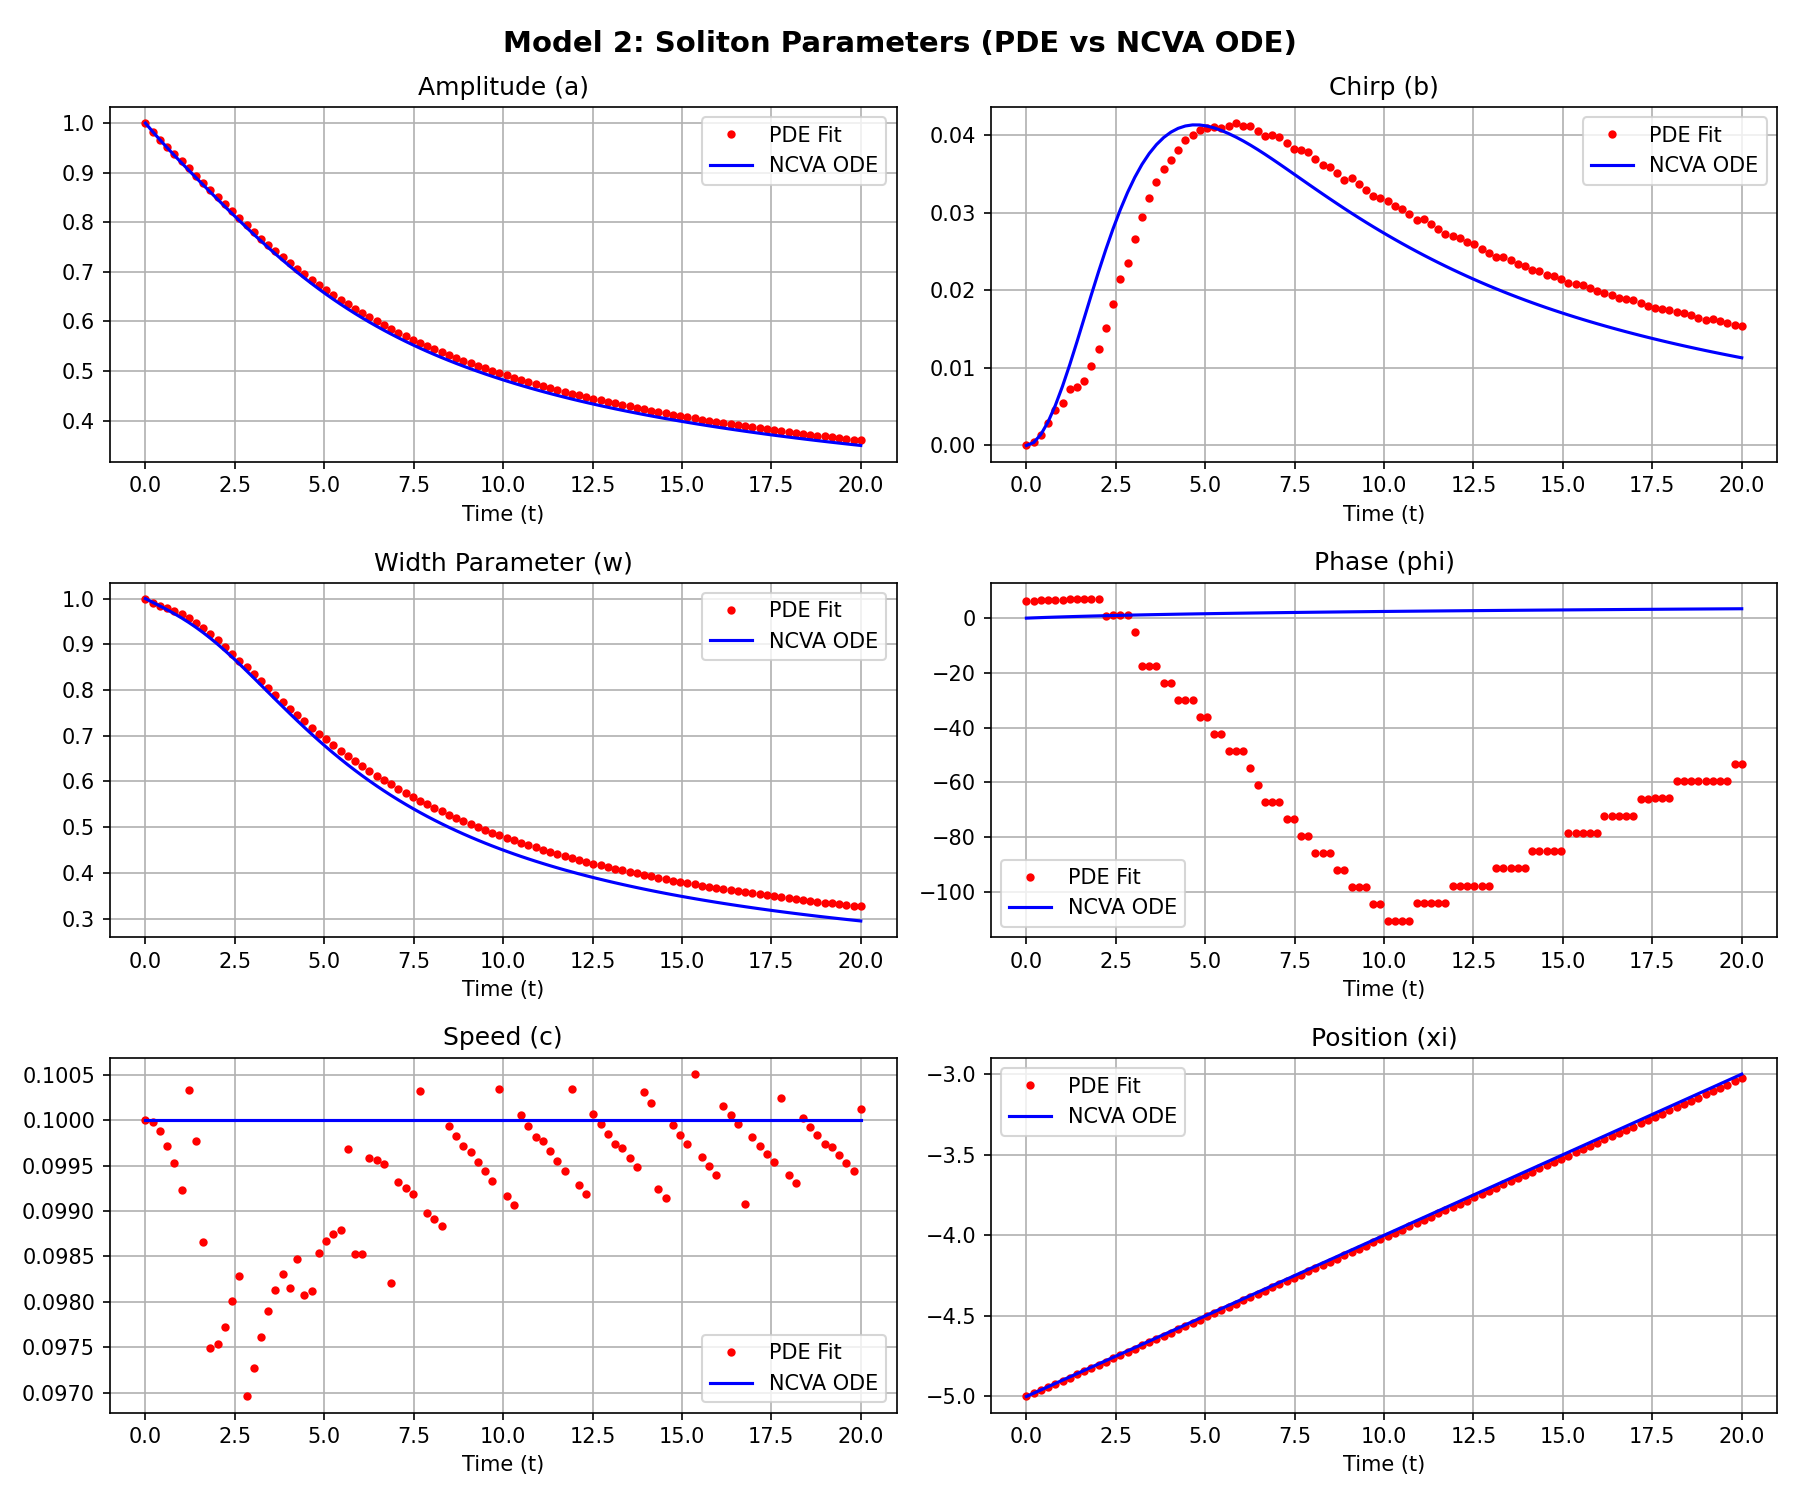
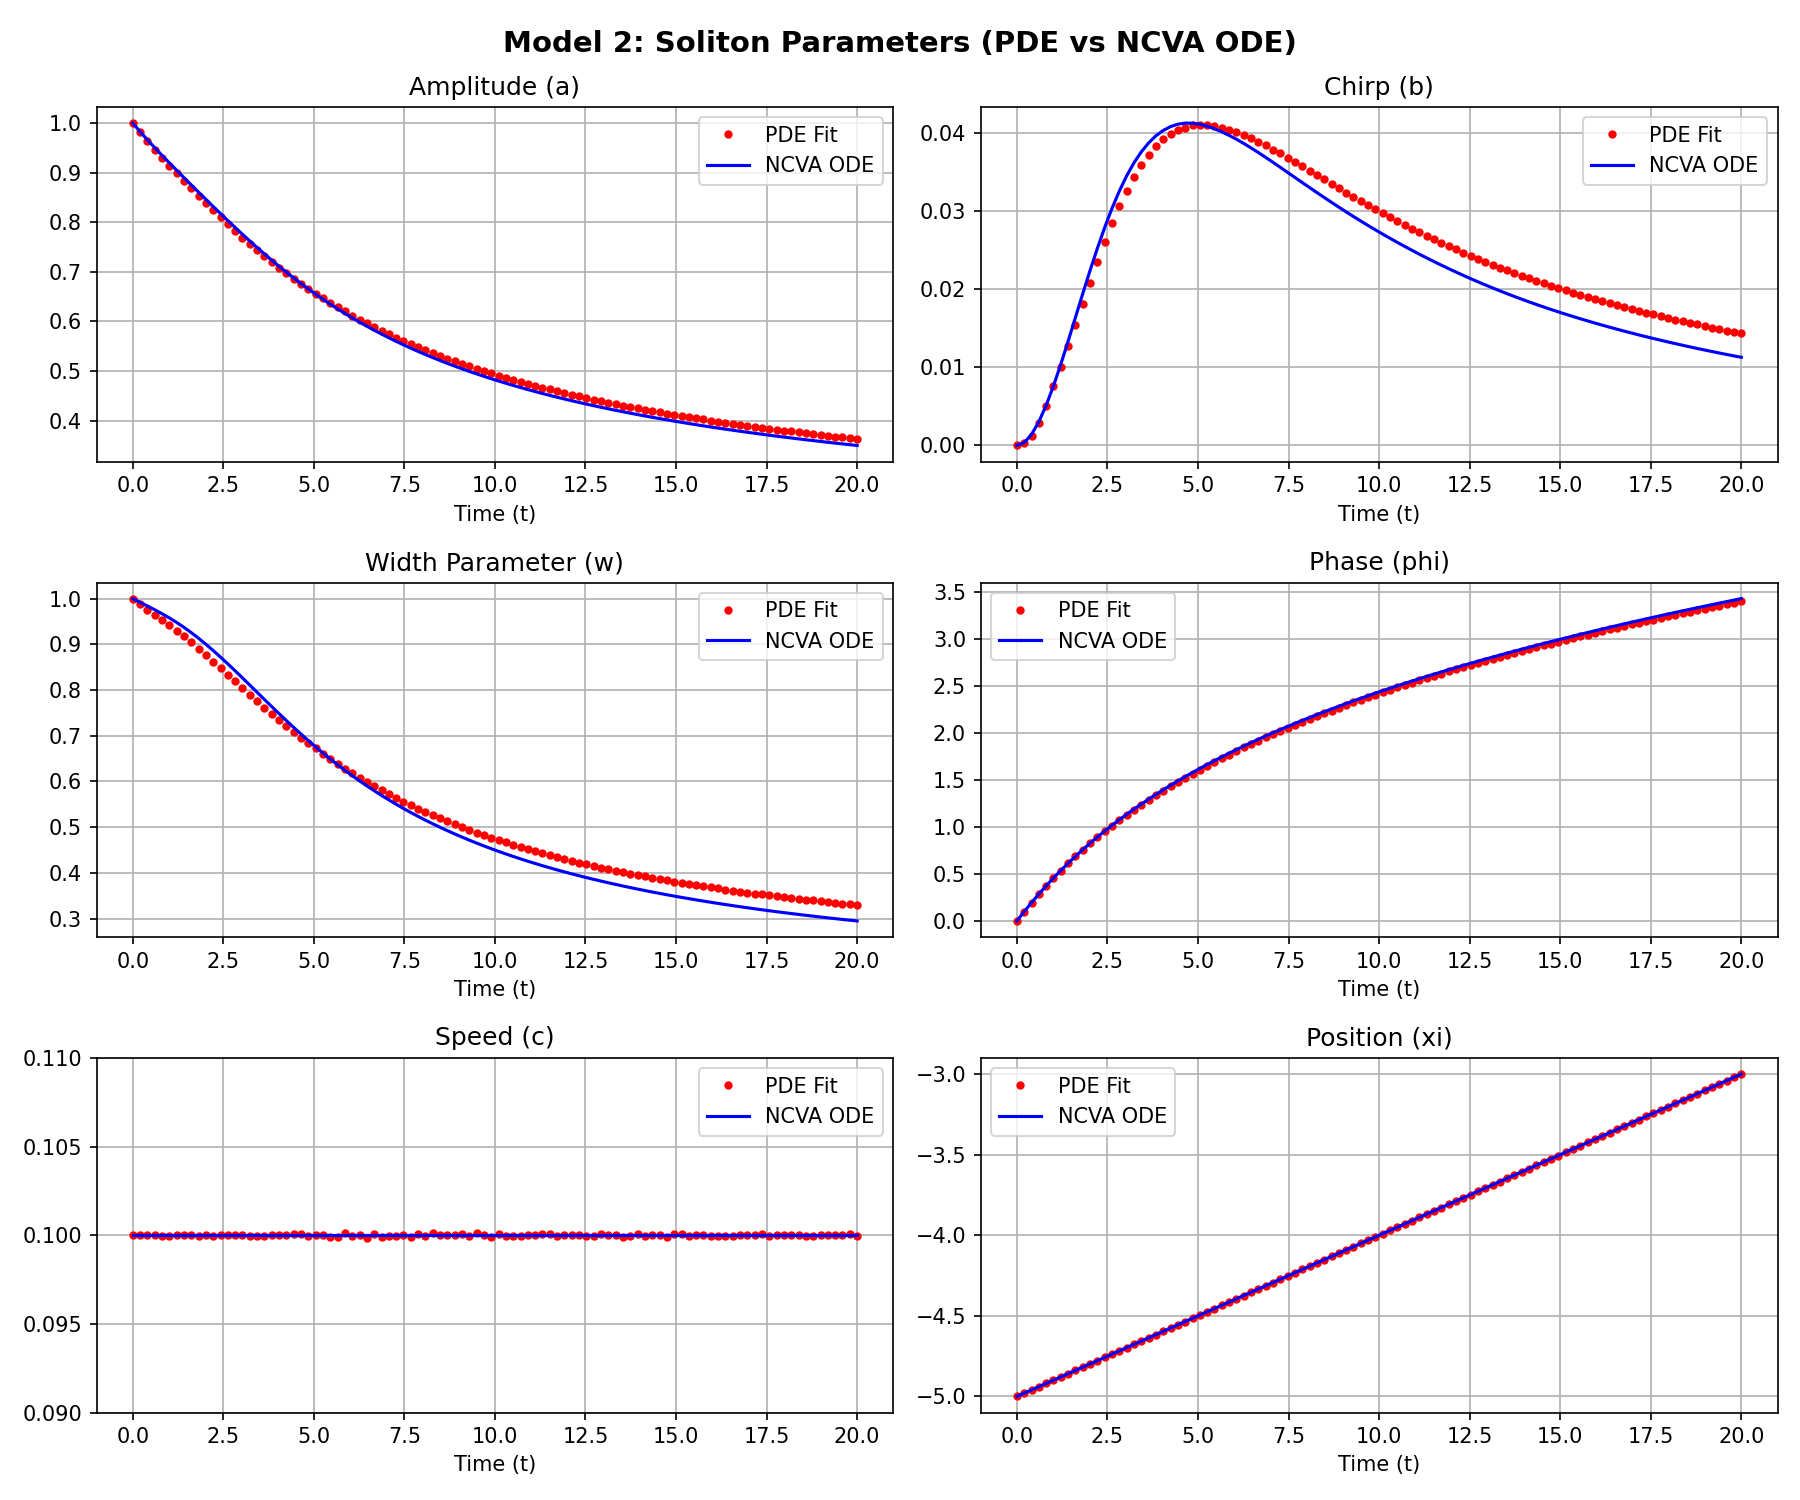
Improve NLSE simulation accuracy and parameter comparison

diff --git a/main.py b/main.py
@@ -11,7 +11,7 @@ t_max = 20.0
 t_steps = 100
 t_eval = np.linspace(0, t_max, t_steps)
 
-N = 256
+N = 2048 # 256
 L = 100.0 # -5 ->5
 x = np.linspace(-L/2, L/2, N)
 dx = x[1] - x[0]
@@ -21,14 +21,30 @@ def compute_uxx(u, dx): # laplacian numerical method
     u_left = np.roll(u, 1)
     return (u_right - 2*u + u_left) / (dx**2)
 
+# def pde_derivs(t, y_real):
+#     u = y_real[:N] + 1j * y_real[N:]
+#     u_xx = compute_uxx(u, dx)
+#     u_sq = np.abs(u)**2
+
+
+#     # isolating
+#     # du_dt = i/2 * u_xx + i*|u|^2*u - eps*|u|^2*u
+#     du_dt = 0.5j * u_xx + 1j * u_sq * u - epsilon * u_sq * u
+
+#     return np.concatenate([du_dt.real, du_dt.imag])
+
+
+# Pre-compute wave numbers outside the derivative function for efficiency
+k_vec = 2 * np.pi * np.fft.fftfreq(N, d=dx)
+k_squared = k_vec**2
+
 def pde_derivs(t, y_real):
     u = y_real[:N] + 1j * y_real[N:]
-    u_xx = compute_uxx(u, dx)
+
+    # Spectral Laplacian
+    u_xx = np.fft.ifft(-k_squared * np.fft.fft(u))
     u_sq = np.abs(u)**2
 
-
-    # isolating
-    # du_dt = i/2 * u_xx + i*|u|^2*u - eps*|u|^2*u
     du_dt = 0.5j * u_xx + 1j * u_sq * u - epsilon * u_sq * u
 
     return np.concatenate([du_dt.real, du_dt.imag])
@@ -49,10 +65,6 @@ print("log: Running PDE Simulation...")
 sol_pde = solve_ivp(pde_derivs, (0, t_max), y_init, t_eval=t_eval, method='RK45', rtol=1e-6, atol=1e-8)
 u_history = sol_pde.y[:N, :].T + 1j * sol_pde.y[N:, :].T
 print("log: PDE Simulation completed.")
-
-
-
-
 
 
 # --- Step 2: Decoupled Parameter Fitting ---
@@ -120,6 +132,10 @@ for i, t_val in enumerate(t_eval):
     c_history_fit.append(c_f)
     phi_history_fit.append(phi_f)
 
+
+phi_history_fit = np.unwrap(phi_history_fit)
+phi_history_fit = phi_history_fit - phi_history_fit[0]
+
 print("Parameter Fitting completed.")
 
 
@@ -163,6 +179,10 @@ for name, pde_val, ode_val, ax in params_to_plot:
     ax.set_xlabel("Time (t)")
     ax.legend()
     ax.grid(True)
+
+    # Add this condition to fix the speed axis scaling
+    if name == "Speed (c)":
+        ax.set_ylim(0.09, 0.11)
 
 plt.tight_layout()
 plt.savefig("./nls_model2_comparison.png", dpi=150)

diff --git a/changelog.md b/changelog.md
@@ -1,0 +1,7 @@
+# Changelog
+
+
+## 2026-08-14
+
+- 17:36 - Improved NLSE simulation accuracy with a higher-resolution spectral Laplacian.
+- 17:36 - Unwrapped fitted phase values, refined speed-axis scaling, and regenerated the comparison plot.
